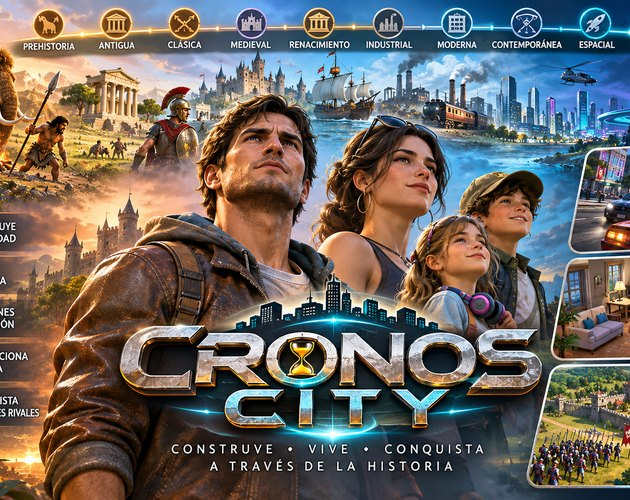
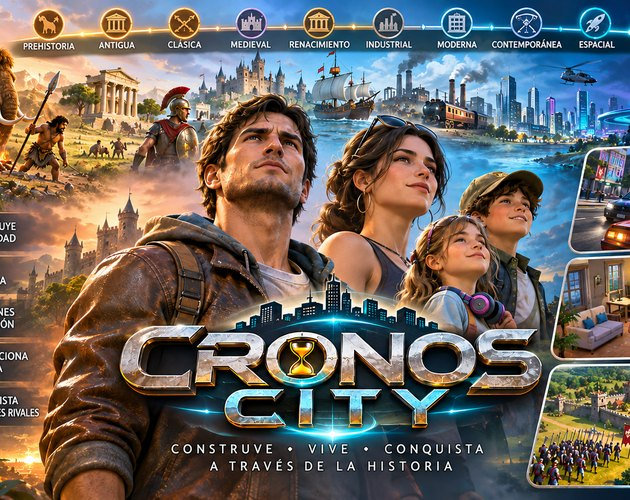
Cronos City: arte actualizado (reloj de arena en lugar del rombo)
Claude-Session: https://claude.ai/code/session_01Cch2ktKdpninPUWdiGh3To

diff --git a/index.html b/index.html
@@ -157,7 +157,7 @@
   <div class="wrap nav-in">
     <a href="#inicio" class="logo" aria-label="NovaRise Games · Inicio"><img src="assets/logo/novarise-logo-oscuro.svg" alt="NovaRise Games" width="163" height="38" class="logo-img"></a>
     <div class="links" id="links">
-      <div class="dd dd-games"><button type="button" class="nav-link dd-btn" aria-expanded="false" aria-haspopup="true">Juegos<svg class="chev" width="12" height="12" viewBox="0 0 24 24" fill="none" stroke="currentColor" stroke-width="2.6" stroke-linecap="round"><path d="M6 9l6 6 6-6"/></svg></button><div class="dd-menu"><span class="dd-title">Nuestros juegos</span><a class="dd-item" href="#juego"><img src="assets/img/portada/portada-es.webp" alt="" width="64" height="51" loading="lazy"><span><strong>Reinos de Leyenda</strong><small>Estrategia fantástica por turnos</small></span></a><a class="dd-item" href="#tidebound"><img src="assets/img/tidebound/portada.webp" alt="" width="64" height="51" loading="lazy"><span><strong>Tidebound</strong><small>Supervivencia en alta mar</small></span></a><a class="dd-item" href="#cronos"><img src="assets/img/cronos/cronos-portada.webp" alt="" width="64" height="51" loading="lazy"><span><strong>Cronos City</strong><small>En desarrollo · próximamente</small></span></a></div></div>
+      <div class="dd dd-games"><button type="button" class="nav-link dd-btn" aria-expanded="false" aria-haspopup="true">Juegos<svg class="chev" width="12" height="12" viewBox="0 0 24 24" fill="none" stroke="currentColor" stroke-width="2.6" stroke-linecap="round"><path d="M6 9l6 6 6-6"/></svg></button><div class="dd-menu"><span class="dd-title">Nuestros juegos</span><a class="dd-item" href="#juego"><img src="assets/img/portada/portada-es.webp" alt="" width="64" height="51" loading="lazy"><span><strong>Reinos de Leyenda</strong><small>Estrategia fantástica por turnos</small></span></a><a class="dd-item" href="#tidebound"><img src="assets/img/tidebound/portada.webp" alt="" width="64" height="51" loading="lazy"><span><strong>Tidebound</strong><small>Supervivencia en alta mar</small></span></a><a class="dd-item" href="#cronos"><img src="assets/img/cronos/cronos-portada.webp?v=2" alt="" width="64" height="51" loading="lazy"><span><strong>Cronos City</strong><small>En desarrollo · próximamente</small></span></a></div></div>
       <a href="#jugabilidad">Así se juega</a>
       <a href="#novedades">Novedades</a>
       <a href="comunidad/">Creadores</a>
@@ -420,7 +420,7 @@
 <section id="cronos" class="cr">
   <div class="wrap">
     <div class="cr-hero reveal">
-      <img src="assets/img/cronos/cronos-arte.webp" alt="Arte de Cronos City: una familia ante una ciudad que evoluciona de la Prehistoria al futuro" loading="lazy" width="1100" height="619">
+      <img src="assets/img/cronos/cronos-arte.webp?v=2" alt="Arte de Cronos City: una familia ante una ciudad que evoluciona de la Prehistoria al futuro" loading="lazy" width="1100" height="619">
       <div class="cr-txt">
         <span class="cr-pill"><i></i>En desarrollo · próximamente</span>
         <h2 class="title">Cronos City</h2>
@@ -559,7 +559,7 @@
   <button class="lb-nav next" id="lbNext" aria-label="Siguiente">›</button>
 </div>
 
-<script src="js/config.js?v=2026112221194"></script>
+<script src="js/config.js?v=2026112221225"></script>
 <script src="js/main.js?v=2026112221194"></script>
 </body>
 </html>

diff --git a/en/index.html b/en/index.html
@@ -157,7 +157,7 @@
   <div class="wrap nav-in">
     <a href="#inicio" class="logo" aria-label="NovaRise Games · Home"><img src="../assets/logo/novarise-logo-oscuro.svg" alt="NovaRise Games" width="163" height="38" class="logo-img"></a>
     <div class="links" id="links">
-      <div class="dd dd-games"><button type="button" class="nav-link dd-btn" aria-expanded="false" aria-haspopup="true">Games<svg class="chev" width="12" height="12" viewBox="0 0 24 24" fill="none" stroke="currentColor" stroke-width="2.6" stroke-linecap="round"><path d="M6 9l6 6 6-6"/></svg></button><div class="dd-menu"><span class="dd-title">Our games</span><a class="dd-item" href="#juego"><img src="../assets/img/portada/portada-en.webp" alt="" width="64" height="51" loading="lazy"><span><strong>Realms of Legend</strong><small>Turn-based fantasy strategy</small></span></a><a class="dd-item" href="#tidebound"><img src="../assets/img/tidebound/portada.webp" alt="" width="64" height="51" loading="lazy"><span><strong>Tidebound</strong><small>Survival on the open sea</small></span></a><a class="dd-item" href="#cronos"><img src="../assets/img/cronos/cronos-portada.webp" alt="" width="64" height="51" loading="lazy"><span><strong>Cronos City</strong><small>In development · coming soon</small></span></a></div></div>
+      <div class="dd dd-games"><button type="button" class="nav-link dd-btn" aria-expanded="false" aria-haspopup="true">Games<svg class="chev" width="12" height="12" viewBox="0 0 24 24" fill="none" stroke="currentColor" stroke-width="2.6" stroke-linecap="round"><path d="M6 9l6 6 6-6"/></svg></button><div class="dd-menu"><span class="dd-title">Our games</span><a class="dd-item" href="#juego"><img src="../assets/img/portada/portada-en.webp" alt="" width="64" height="51" loading="lazy"><span><strong>Realms of Legend</strong><small>Turn-based fantasy strategy</small></span></a><a class="dd-item" href="#tidebound"><img src="../assets/img/tidebound/portada.webp" alt="" width="64" height="51" loading="lazy"><span><strong>Tidebound</strong><small>Survival on the open sea</small></span></a><a class="dd-item" href="#cronos"><img src="../assets/img/cronos/cronos-portada.webp?v=2" alt="" width="64" height="51" loading="lazy"><span><strong>Cronos City</strong><small>In development · coming soon</small></span></a></div></div>
       <a href="#jugabilidad">How it plays</a>
       <a href="#novedades">News</a>
       <a href="community/">Creators</a>
@@ -420,7 +420,7 @@
 <section id="cronos" class="cr">
   <div class="wrap">
     <div class="cr-hero reveal">
-      <img src="../assets/img/cronos/cronos-arte.webp" alt="Cronos City artwork: a family before a city evolving from prehistory to the future" loading="lazy" width="1100" height="619">
+      <img src="../assets/img/cronos/cronos-arte.webp?v=2" alt="Cronos City artwork: a family before a city evolving from prehistory to the future" loading="lazy" width="1100" height="619">
       <div class="cr-txt">
         <span class="cr-pill"><i></i>In development · coming soon</span>
         <h2 class="title">Cronos City</h2>
@@ -559,7 +559,7 @@
   <button class="lb-nav next" id="lbNext" aria-label="Next">›</button>
 </div>
 
-<script src="../js/config.js?v=2026112221194"></script>
+<script src="../js/config.js?v=2026112221225"></script>
 <script src="../js/main.js?v=2026112221194"></script>
 </body>
 </html>

diff --git a/js/config.js b/js/config.js
@@ -60,7 +60,7 @@ window.PROYECTOS = [
     texto:"Construye tu ciudad, vive la vida de sus habitantes y conquista ciudades rivales a través de 10 eras de la historia. En desarrollo.",
     texto_en:"Build your city, live the lives of its people and conquer rival cities across 10 eras of history. In development.",
     status:"dev", chips:["Construcción","Simulación","Estrategia"], chips_en:["City building","Simulation","Strategy"],
-    imagen:"assets/img/cronos/cronos-portada.webp",
+    imagen:"assets/img/cronos/cronos-portada.webp?v=2",
     enlaces:[ {texto:"Descubrir", texto_en:"Discover", url:"#cronos", ancla:true},
               {texto:"Seguir el desarrollo", texto_en:"Follow development", url:"https://novarisegames.itch.io"} ] }
 ];
